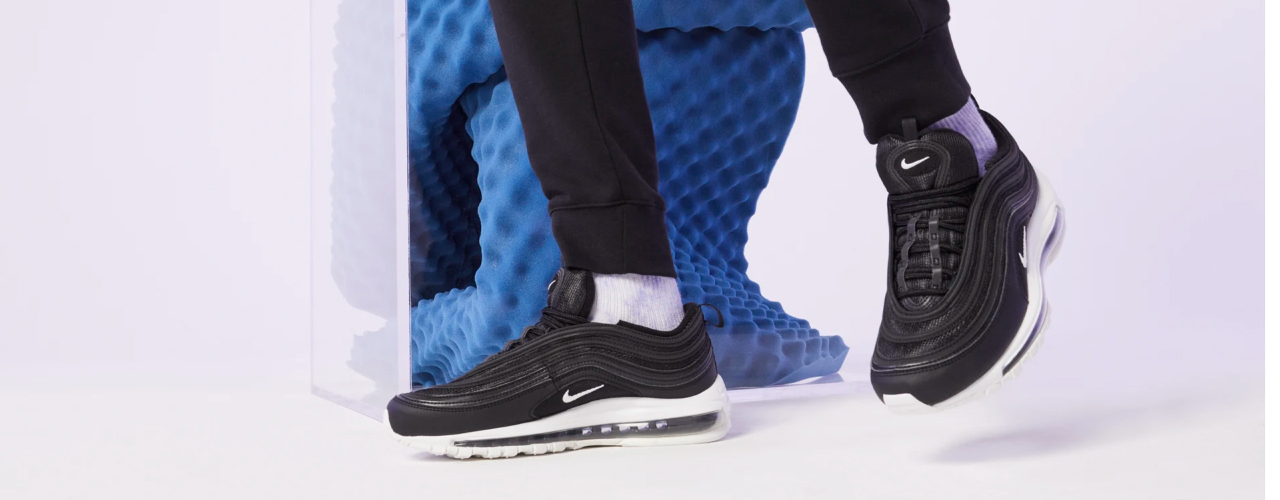
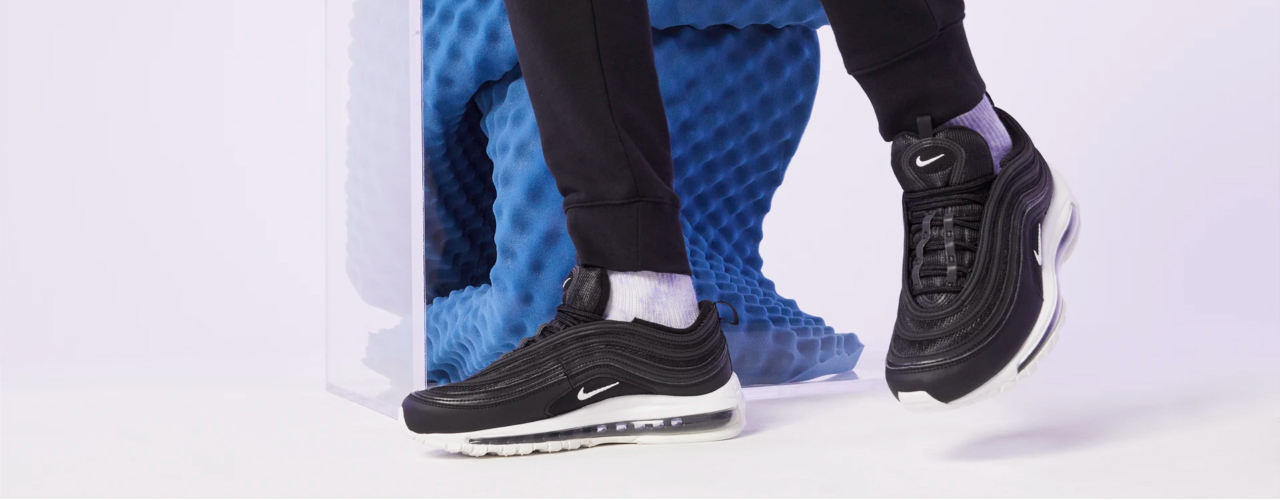
add carousel

Changed region(s): [[0.2812, 0.0, 0.8438, 0.93], [0.9062, 0.0, 1.0, 1.0]]

diff --git a/src/pages/productPage/product/productBay/ProductBay.js b/src/pages/productPage/product/productBay/ProductBay.js
@@ -1,17 +1,25 @@
 import React from 'react';
 import classes from './product.module.css';
 import {
-  Box, Button, Card, CardContent, CardMedia, colors, Container, Grid, IconButton, Stack, Typography
+  Box, Button, Card, CardMedia, Container, Grid, IconButton, Stack, Typography
 } from "@mui/material";
+import Carousel from "react-material-ui-carousel";
 import { Brightness1 } from "@mui/icons-material";
 import basket from './image/basket.png'
+import sneakers2 from './image/sneakers2.jpg'
+import sneakers3 from './image/sneakers3.jpg'
 import sneakers1 from './image/sneakers1.jpg'
 
 const ProductBay = () => {
 
+  const images = [
+    {image: sneakers1},
+    {image: sneakers2},
+    {image: sneakers3}
+  ]
+
   const selectedProduct = {
     name: 'Кроссовки Nike Air Max 97',
-    image: sneakers1,
     code: '22558',
     sizes: [39, 40, 41, 43, 44],
     price: 9200,
@@ -32,14 +40,14 @@ const ProductBay = () => {
       <Grid display={"flex"} justifyContent={"space-between"} mt={10}>
 
         <Box width='48%'>
-          <Card className={classes.image}>
-            <CardMedia
-              component="img"
-              image={selectedProduct.image}
-            />
-          </Card>
+          <Carousel animation="fade" duration={1000} height={400} indicators={false}>
+            {images.map(img =>
+              <img className={classes.image} src={img.image} alt=""/>
+            )}
+          </Carousel>
           <div className={classes.line}></div>
         </Box>
+
 
 
         <Box width='48%' >

diff --git a/src/pages/productPage/product/productReviews/ProductReviews.js b/src/pages/productPage/product/productReviews/ProductReviews.js
@@ -1,7 +1,6 @@
 import React from 'react';
 import { Box, Button, Card, CardMedia, Container, Grid, Typography } from "@mui/material";
 import sneakers2 from './image/sneakers2.jpg'
-import sneakers3 from './image/sneakers3.jpg'
 import starFilled from './image/starFilled.svg'
 import chevronDown from './image/chevronDown.svg'
 import classes from './productReviews.module.css'
@@ -10,8 +9,7 @@ const ProductReviews = () => {
 
   const reviewsProduct = {
     name: 'Nike Air Max 97',
-    image: sneakers2,
-    imageTwo: sneakers3
+    image: sneakers2
   }
 
   const reviews = {
@@ -27,19 +25,8 @@ const ProductReviews = () => {
     <Container>
       <Grid display={"flex"} justifyContent={"space-between"}>
         <Box pt={5} className={classes.mainText}>
-          <Box>
-            <Typography className={classes.text}>
-              Nike Air Max 97
-            </Typography>
-          </Box>
 
           <Box display={"flex"} justifyContent={"space-between"} className={classes.imageBox} pr={10}>
-            <Card className={classes.image}>
-              <CardMedia
-                component="img"
-                image={reviewsProduct.imageTwo}
-              />
-            </Card>
 
             <Card className={classes.image}>
               <CardMedia
@@ -48,9 +35,6 @@ const ProductReviews = () => {
               />
             </Card>
           </Box>
-          <Typography className={classes.text}>
-            Стиль и Удобство
-          </Typography>
         </Box>
 
         <Box pt={5}>

diff --git a/src/pages/productPage/product/productBay/product.module.css b/src/pages/productPage/product/productBay/product.module.css
@@ -1,5 +1,7 @@
 .image {
     box-shadow: none !important;
+    width: 550px;
+    height: 450px;
 }
 
 .title {
